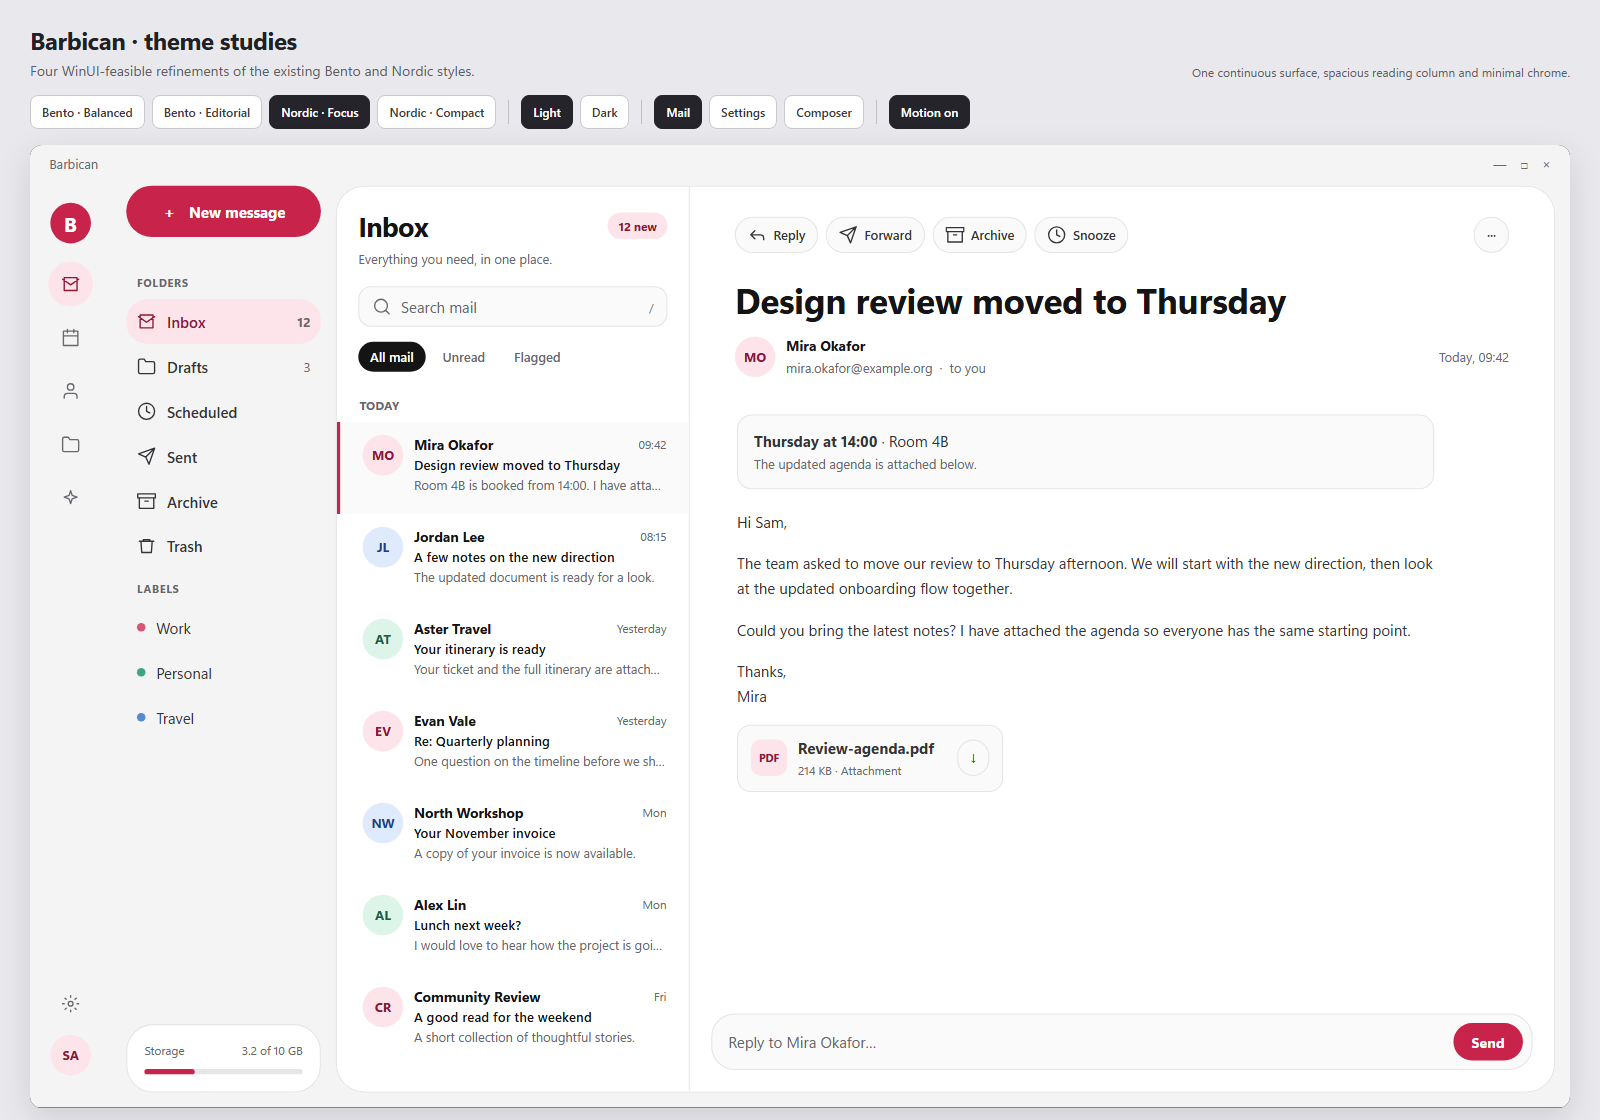
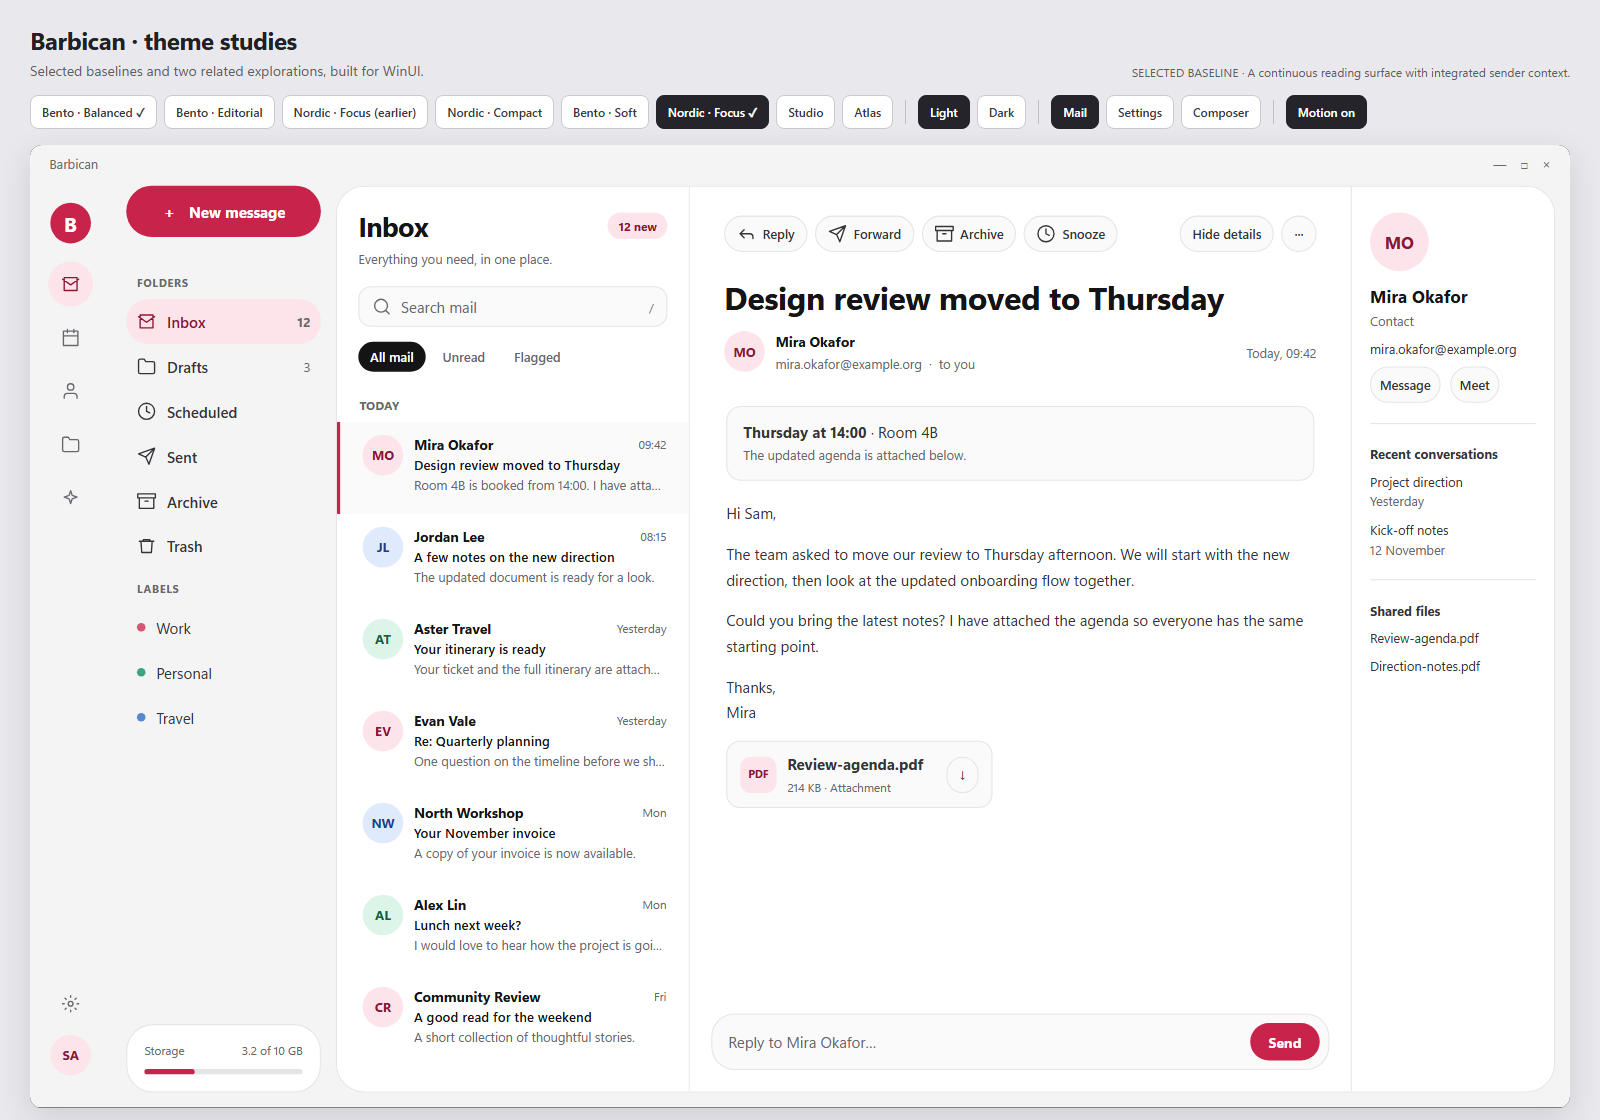
Make the approved Nordic Focus sender panel toggleable and update its reference

diff --git a/design/UI-GUIDELINES.md b/design/UI-GUIDELINES.md
@@ -16,9 +16,9 @@ Starting dimensions in effective pixels: 14 window inset, 12 tile gutters, 66 ra
 
 ![Approved Nordic Focus direction](mockups/approved-2026-11-19/nordic-focus-light.png)
 
-Keep the rail and folders on the ground, with one continuous rounded list/reader surface separated by a hairline. Favor a spacious reading column and minimal chrome. Use pills/circles and the same B identity and palette. The pictured context panel is hidden; provide an accessible control to reveal it rather than removing its functionality.
+Keep the rail and folders on the ground, with one continuous rounded list/reader/context surface separated by hairlines. Favor a spacious reading column and minimal chrome. Use pills/circles and the same B identity and palette. Nordic Focus includes the integrated sender/context panel selected by the user on 2026-11-19; keep the name Nordic Focus. The sender panel MUST be toggleable through an accessible show/hide control with a clear pressed state. Expand the reader when it is hidden, preserve the panel state when toggling, and provide keyboard access. Do not permanently reserve empty panel width.
 
-Starting dimensions: 76 rail, approximately 210-228 folders, 330-350 list and flexible reader. Keep the existing shell breakpoints; hide or reveal auxiliary context before compressing the reading area below roughly 420. At narrow widths use list/reader navigation rather than squeezing the entire desktop layout.
+Starting dimensions: 76 rail, approximately 210-228 folders, 330-350 list, flexible reader and about 190-210 for the context panel when open. Keep the existing shell breakpoints; collapse auxiliary context before compressing the reading area below roughly 420, with its show/hide control still accessible. At narrow widths use list/reader navigation rather than squeezing the entire desktop layout.
 
 ## Both styles and all screens
 

diff --git a/docs/PROGRESS.md b/docs/PROGRESS.md
@@ -10,7 +10,7 @@ wherever they can. Safety rules stay (no real input, read-only account, admin ke
 
 ## Codex continuation (active, 2026-11-19)
 
-- **User-selected UI guidelines:** Bento Balanced and Nordic Focus; see `design/UI-GUIDELINES.md` and CLAUDE.md. The same Terra agent completed Bento Soft and Nordic Focus + alternatives, which remain proposals. No blanket production theme replacement has been applied.
+- **User-selected UI guidelines:** Bento Balanced and Nordic Focus; see `design/UI-GUIDELINES.md` and CLAUDE.md. Nordic Focus now means the integrated sender/context layout with a toggleable panel; the name remains Nordic Focus. The same Terra agent is creating two completely different exploratory alternatives, not just variations. No blanket production theme replacement has been applied.
 
 - Coordinator: Sol, checking subagent code during integration as requested by the user; the later independent whole-app reviewer is Astra. Keep the historical filename `docs/FABLE-REVIEW.md`, mark new entries as Codex, and record exact review scope and evidence.
 - The user explicitly authorized pushing milestone commits to `Kaan88/barbican`.

diff --git a/CLAUDE.md b/CLAUDE.md
@@ -22,7 +22,9 @@ Read [design/UI-GUIDELINES.md](design/UI-GUIDELINES.md) before UI work. The user
 **Bento Balanced** and **Nordic Focus** from the Codex / Terra High mockups and instructed
 that these are the UI guidelines from now on, including for Claude. Refine the existing
 Bento and Nordic styles toward those baselines; where older boards differ, the selected
-directions win. Preserve behavior, shared tokens, native WinUI 3 feasibility, accessibility,
+directions win. Nordic Focus uses the integrated sender/context panel, with a user-controlled
+show/hide toggle; the reader expands when hidden. Preserve behavior, shared tokens, native
+WinUI 3 feasibility, accessibility,
 reduced motion and the hidden-automation rules. Further mockup alternatives remain proposals
 until selected; do not silently adopt them. Reference images are checked into
 `design/mockups/approved-2026-11-19/`.

diff --git a/docs/CODEX-HANDOFF.md b/docs/CODEX-HANDOFF.md
@@ -6,7 +6,8 @@ This is the Codex-specific continuation of the user's Claude handoff.
 
 ## Selected UI guidelines (2026-11-19)
 
-The user selected **Bento Balanced** and **Nordic Focus** and directed all future UI work,
+The user selected **Bento Balanced** and **Nordic Focus** (integrated sender/context panel,
+with an accessible show/hide toggle and expanding reader) and directed all future UI work,
 including Claude's, to use them. Read [design/UI-GUIDELINES.md](../design/UI-GUIDELINES.md)
 and the updated CLAUDE.md. Additional alternatives by the same Terra agent remain proposals.
 The selected images are stored in the repository; do not depend on a machine-local gallery.
